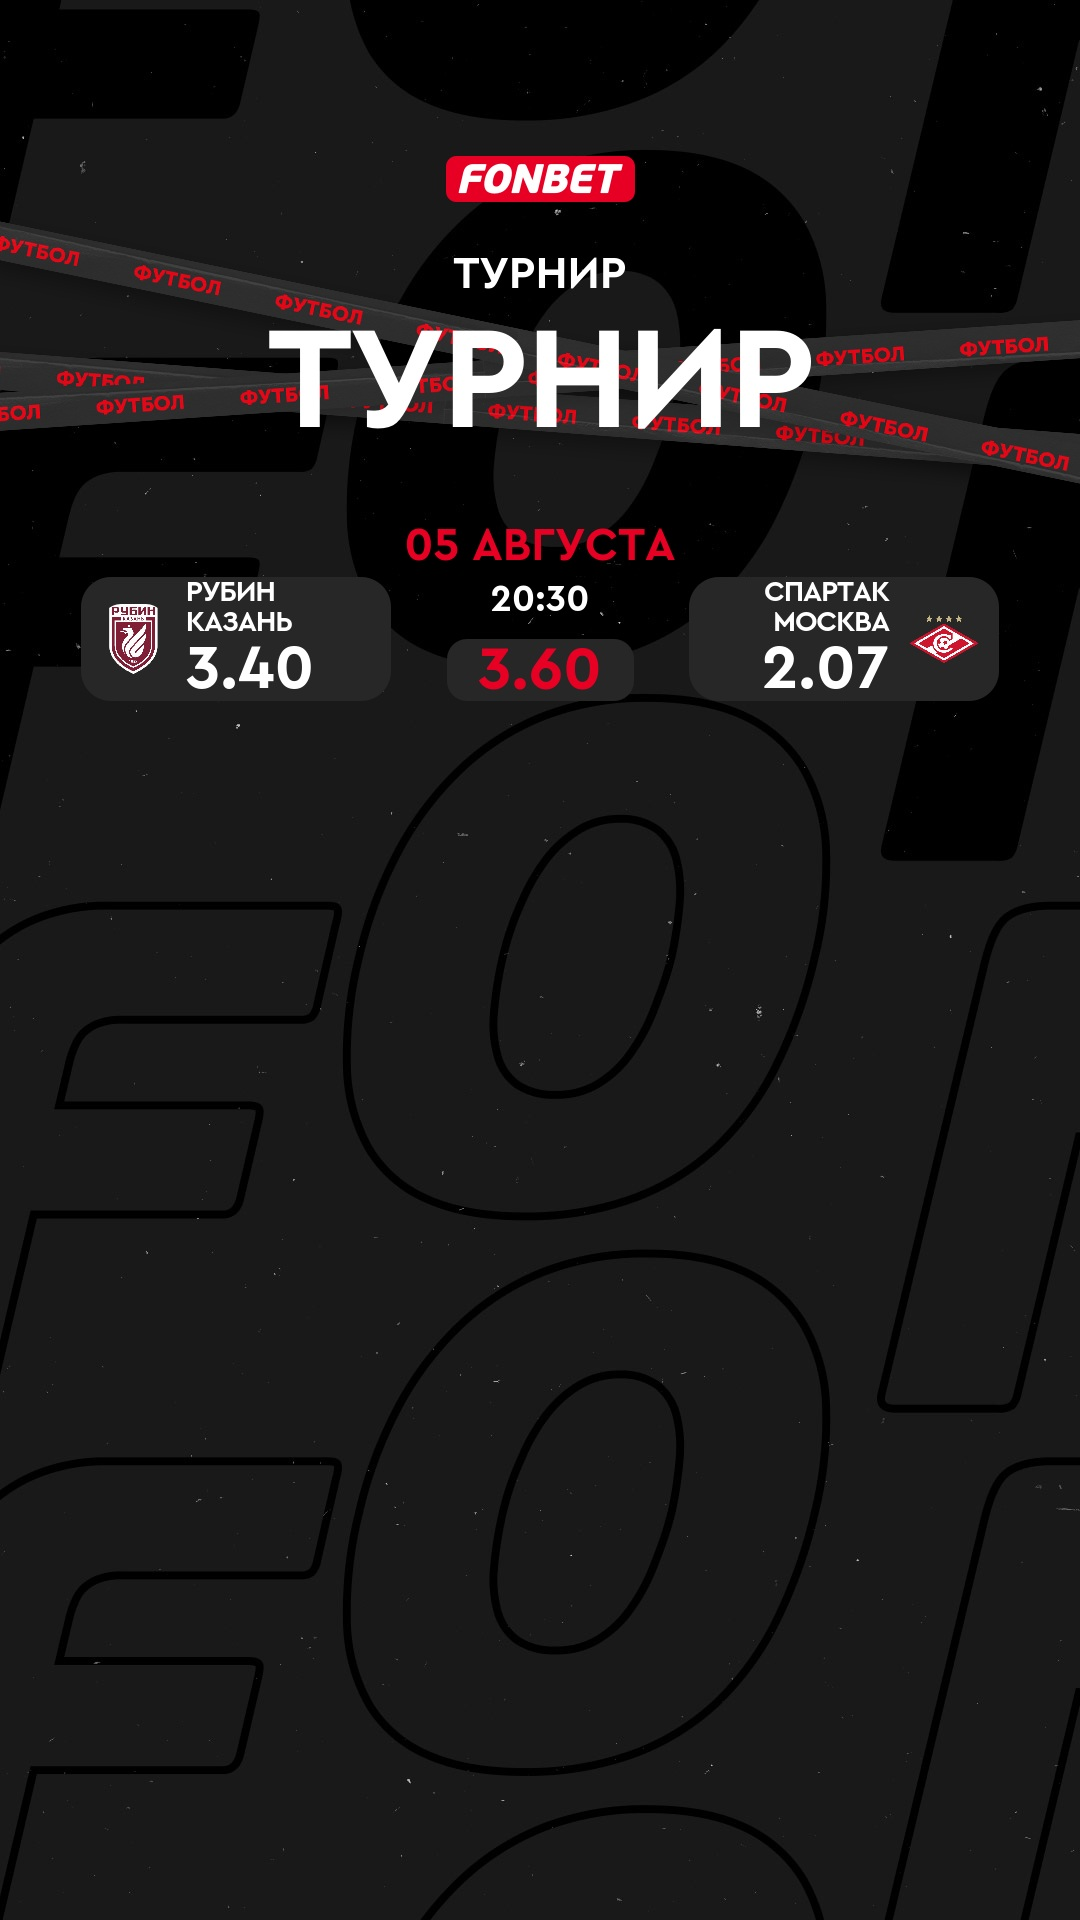
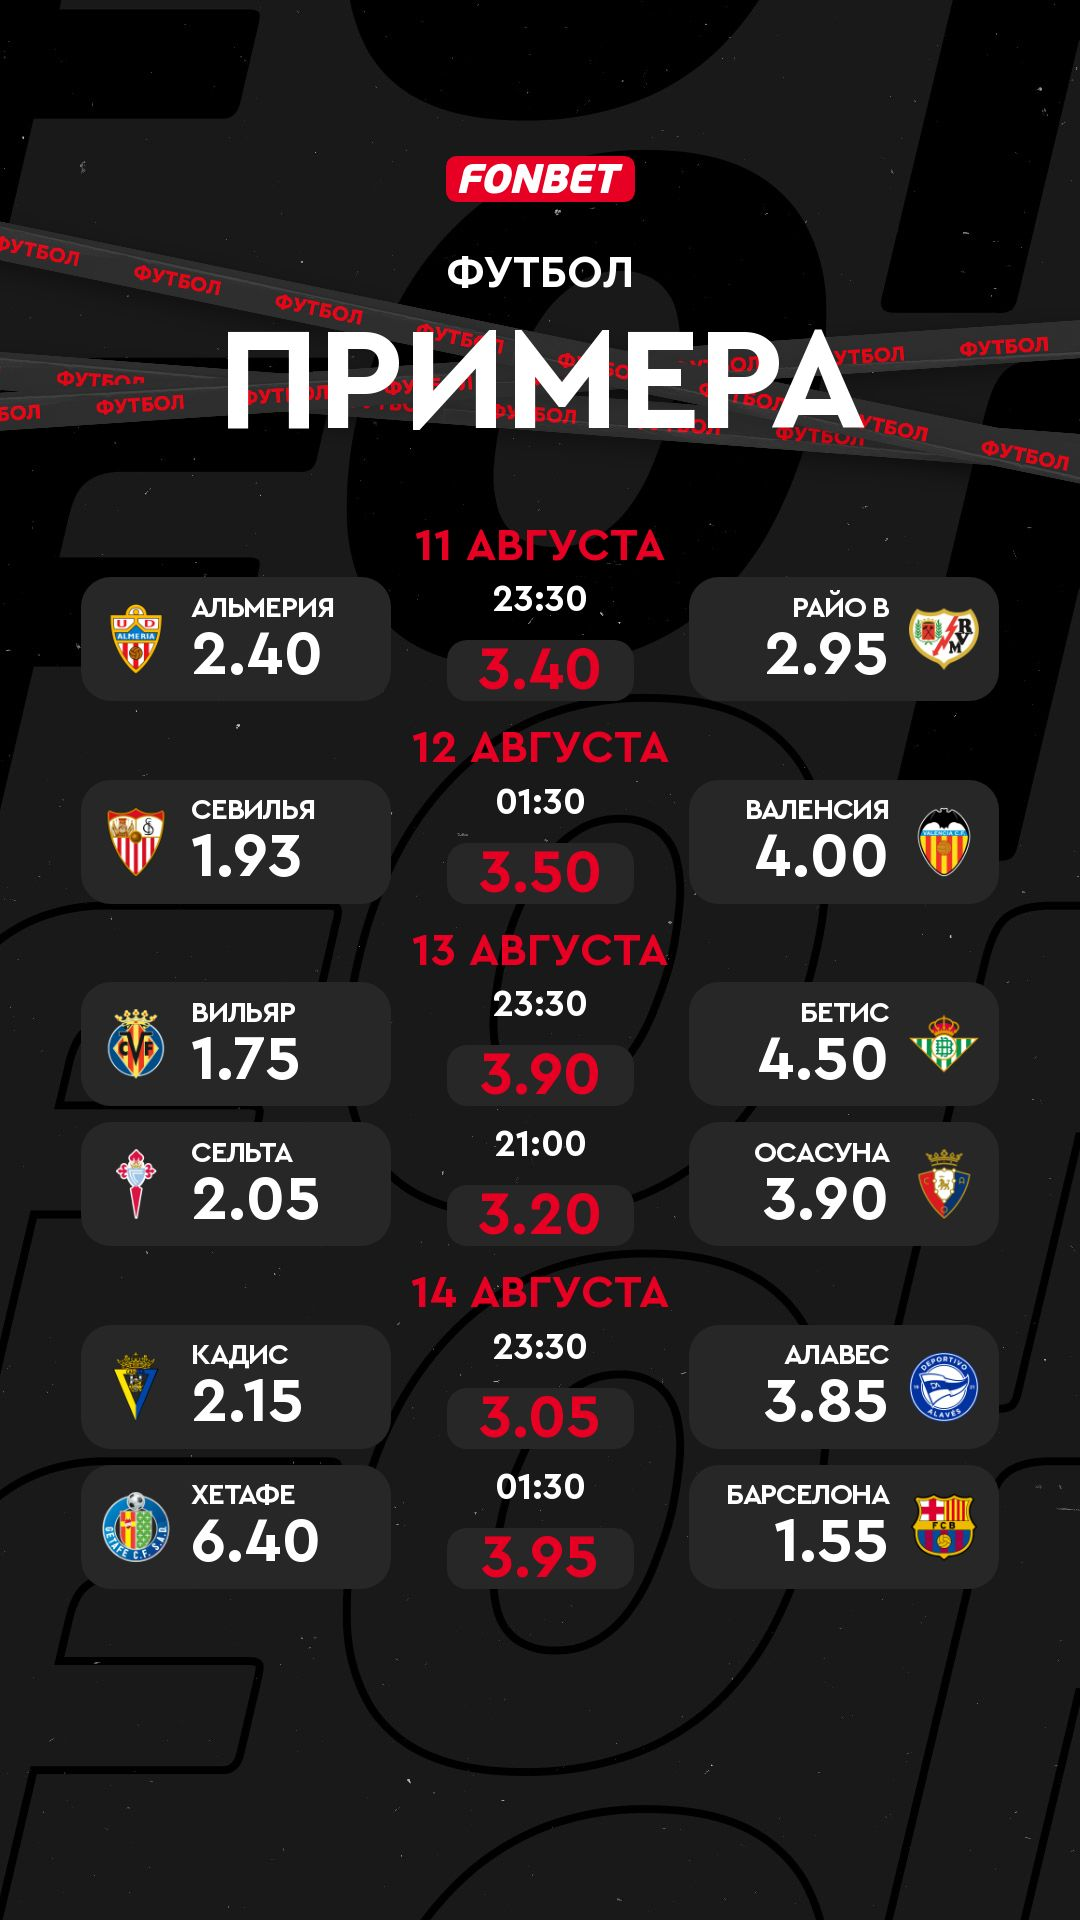
update templates

diff --git a/resources/banner_template.html b/resources/banner_template.html
@@ -8,51 +8,51 @@
     <style>
         @font-face {
             font-family: "CeraPro-Black";
-            src: url("../fonts/CeraPro-Black.woff");
+            src: url("./fonts/CeraPro-Black.woff");
         }
         @font-face {
             font-family: "CeraPro-BlackItalic";
-            src: url("../fonts/CeraPro-BlackItalic.woff");
+            src: url("./fonts/CeraPro-BlackItalic.woff");
         }
         @font-face {
             font-family: "CeraPro-Bold";
-            src: url("../fonts/CeraPro-Bold.woff");
+            src: url("./fonts/CeraPro-Bold.woff");
         }
         @font-face {
             font-family: "CeraPro-BoldItalic";
-            src: url("../fonts/CeraPro-BoldItalic.woff");
+            src: url("./fonts/CeraPro-BoldItalic.woff");
         }
         @font-face {
             font-family: "CeraPro-Italic";
-            src: url("../fonts/CeraPro-Italic.woff");
+            src: url("./fonts/CeraPro-Italic.woff");
         }
         @font-face {
             font-family: "CeraPro-Light";
-            src: url("../fonts/CeraPro-Light.woff");
+            src: url("./fonts/CeraPro-Light.woff");
         }
         @font-face {
             font-family: "CeraPro-LightItalic";
-            src: url("../fonts/CeraPro-LightItalic.woff");
+            src: url("./fonts/CeraPro-LightItalic.woff");
         }
         @font-face {
             font-family: "CeraPro-Medium";
-            src: url("../fonts/CeraPro-Medium.woff");
+            src: url("./fonts/CeraPro-Medium.woff");
         }
         @font-face {
             font-family: "CeraPro-MediumItalic";
-            src: url("../fonts/CeraPro-MediumItalic.woff");
+            src: url("./fonts/CeraPro-MediumItalic.woff");
         }
         @font-face {
             font-family: "CeraPro-Regular";
-            src: url("../fonts/CeraPro-Regular.woff");
+            src: url("./fonts/CeraPro-Regular.woff");
         }
         @font-face {
             font-family: "CeraPro-Thin";
-            src: url("../fonts/CeraPro-Thin.woff");
+            src: url("./fonts/CeraPro-Thin.woff");
         }
         @font-face {
             font-family: "CeraPro-ThinItalic";
-            src: url("../fonts/CeraPro-ThinItalic.woff");
+            src: url("./fonts/CeraPro-ThinItalic.woff");
         }
         * {
             margin: 0;
@@ -72,7 +72,7 @@
             align-items: center;
             width: 1080px;
             height: 1920px;
-            background-image: url('../assets/Back-1080x1920.jpg');
+            background-image: url('./assets/Back-1080x1920.jpg');
             padding-top: 156px;
         }
         .stripe {
@@ -83,7 +83,7 @@
             margin-top: 8px;
             width: 1080px;
             height: 305px;
-            background-image: url('../assets/lenta.png');
+            background-image: url('./assets/lenta.png');
         }
         .small-title {
             color: #FFF;
@@ -238,34 +238,126 @@
 </head>
 <body>
     <div class="background">
-        <img class="logo" src="../assets/logo.svg" width="191" height="46">
+        <img class="logo" src="./assets/logo.svg" width="191" height="46">
         <div class="stripe">
-            <div class="small-title">Турнир</div>
-            <div class="big-title">Турнир</div>
-        </div>
-        <div class="date">05 августа</div>
-        <div class="table">
-            <div class="row">
-                <div class="cell">
-                    <img class="image" src="https://origin.kzac51-resources.com/ContentCommon/Logotypes/TeamLogos/Football/Russia/new300/Rubin.png" alt="First team logo">
-                    <div class="info">
-                        <div class="name">Рубин Казань</div>
-                        <div class="rate">3.40</div>
+            <div class="small-title">Футбол</div>
+            <div class="big-title">Примера</div>
+        </div><div class="date">11 августа</div>
+            <div class="table"><div class="row">
+                    <div class="cell">
+                        <img class="image" src="https://origin.kzac51-resources.com/ContentCommon/Logotypes/TeamLogos/Football/Spain/segunda/UD_Almeria.png" alt="First team logo">
+                        <div class="info">
+                            <div class="name">Альмерия</div>
+                            <div class="rate">2.40</div>
+                        </div>
                     </div>
-                </div>
-                <div class="middle-cell">
-                    <div class="time">20:30</div>
-                    <div class="middle-rate">3.60</div>
-                </div>
-                <div class="mirror-cell">
-                    <img class="mirror-image" src="https://origin.kzac51-resources.com/ContentCommon/Logotypes/TeamLogos/Football/Russia/new300/Spartak_Moscow.png" alt="Second team logo">
-                    <div class="mirror-info">
-                        <div class="name">Спартак Москва</div>
-                        <div class="rate">2.07</div>
+                    <div class="middle-cell">
+                        <div class="time">23:30</div>
+                        <div class="middle-rate">3.40</div>
                     </div>
-                </div>
-            </div>
-        </div>
-    </div>
-</body>
-</html>
+                    <div class="mirror-cell">
+                        <img class="mirror-image" src="https://origin.kzac51-resources.com/ContentCommon/Logotypes/TeamLogos/Football/Spain/new/Rayo_Vallecano.png" alt="Second team logo">
+                        <div class="mirror-info">
+                            <div class="name">Райо В</div>
+                            <div class="rate">2.95</div>
+                        </div>
+                    </div>
+                </div><div class="date">12 августа</div>
+            <div class="table"><div class="row">
+                    <div class="cell">
+                        <img class="image" src="https://origin.kzac51-resources.com/ContentCommon/Logotypes/TeamLogos/Football/Spain/new/Sevilla_FC.png" alt="First team logo">
+                        <div class="info">
+                            <div class="name">Севилья</div>
+                            <div class="rate">1.93</div>
+                        </div>
+                    </div>
+                    <div class="middle-cell">
+                        <div class="time">01:30</div>
+                        <div class="middle-rate">3.50</div>
+                    </div>
+                    <div class="mirror-cell">
+                        <img class="mirror-image" src="https://origin.kzac51-resources.com/ContentCommon/Logotypes/TeamLogos/Football/Spain/new/Valenciacf.png" alt="Second team logo">
+                        <div class="mirror-info">
+                            <div class="name">Валенсия</div>
+                            <div class="rate">4.00</div>
+                        </div>
+                    </div>
+                </div><div class="date">13 августа</div>
+            <div class="table"><div class="row">
+                    <div class="cell">
+                        <img class="image" src="https://origin.kzac51-resources.com/ContentCommon/Logotypes/TeamLogos/Football/Spain/new/Villarreal.png" alt="First team logo">
+                        <div class="info">
+                            <div class="name">Вильяр</div>
+                            <div class="rate">1.75</div>
+                        </div>
+                    </div>
+                    <div class="middle-cell">
+                        <div class="time">23:30</div>
+                        <div class="middle-rate">3.90</div>
+                    </div>
+                    <div class="mirror-cell">
+                        <img class="mirror-image" src="https://origin.kzac51-resources.com/ContentCommon/Logotypes/TeamLogos/Football/Spain/new/Real_Betis.png" alt="Second team logo">
+                        <div class="mirror-info">
+                            <div class="name">Бетис</div>
+                            <div class="rate">4.50</div>
+                        </div>
+                    </div>
+                </div><div class="row">
+                    <div class="cell">
+                        <img class="image" src="https://origin.kzac51-resources.com/ContentCommon/Logotypes/TeamLogos/Football/Spain/new/Celta_Vigo.png" alt="First team logo">
+                        <div class="info">
+                            <div class="name">Сельта</div>
+                            <div class="rate">2.05</div>
+                        </div>
+                    </div>
+                    <div class="middle-cell">
+                        <div class="time">21:00</div>
+                        <div class="middle-rate">3.20</div>
+                    </div>
+                    <div class="mirror-cell">
+                        <img class="mirror-image" src="https://origin.kzac51-resources.com/ContentCommon/Logotypes/TeamLogos/Football/Spain/new/Osasuna.png" alt="Second team logo">
+                        <div class="mirror-info">
+                            <div class="name">Осасуна</div>
+                            <div class="rate">3.90</div>
+                        </div>
+                    </div>
+                </div><div class="date">14 августа</div>
+            <div class="table"><div class="row">
+                    <div class="cell">
+                        <img class="image" src="https://origin.kzac51-resources.com/ContentCommon/Logotypes/TeamLogos/Football/Spain/new/Cadiz.png" alt="First team logo">
+                        <div class="info">
+                            <div class="name">Кадис</div>
+                            <div class="rate">2.15</div>
+                        </div>
+                    </div>
+                    <div class="middle-cell">
+                        <div class="time">23:30</div>
+                        <div class="middle-rate">3.05</div>
+                    </div>
+                    <div class="mirror-cell">
+                        <img class="mirror-image" src="https://origin.kzac51-resources.com/ContentCommon/Logotypes/TeamLogos/Football/Spain/new/Alaves.png" alt="Second team logo">
+                        <div class="mirror-info">
+                            <div class="name">Алавес</div>
+                            <div class="rate">3.85</div>
+                        </div>
+                    </div>
+                </div><div class="row">
+                    <div class="cell">
+                        <img class="image" src="https://origin.kzac51-resources.com/ContentCommon/Logotypes/TeamLogos/Football/Spain/new/Getafe.png" alt="First team logo">
+                        <div class="info">
+                            <div class="name">Хетафе</div>
+                            <div class="rate">6.40</div>
+                        </div>
+                    </div>
+                    <div class="middle-cell">
+                        <div class="time">01:30</div>
+                        <div class="middle-rate">3.95</div>
+                    </div>
+                    <div class="mirror-cell">
+                        <img class="mirror-image" src="https://origin.kzac51-resources.com/ContentCommon/Logotypes/TeamLogos/Football/Spain/new/Barcelona.png" alt="Second team logo">
+                        <div class="mirror-info">
+                            <div class="name">Барселона</div>
+                            <div class="rate">1.55</div>
+                        </div>
+                    </div>
+                </div></div></div></body></html>
